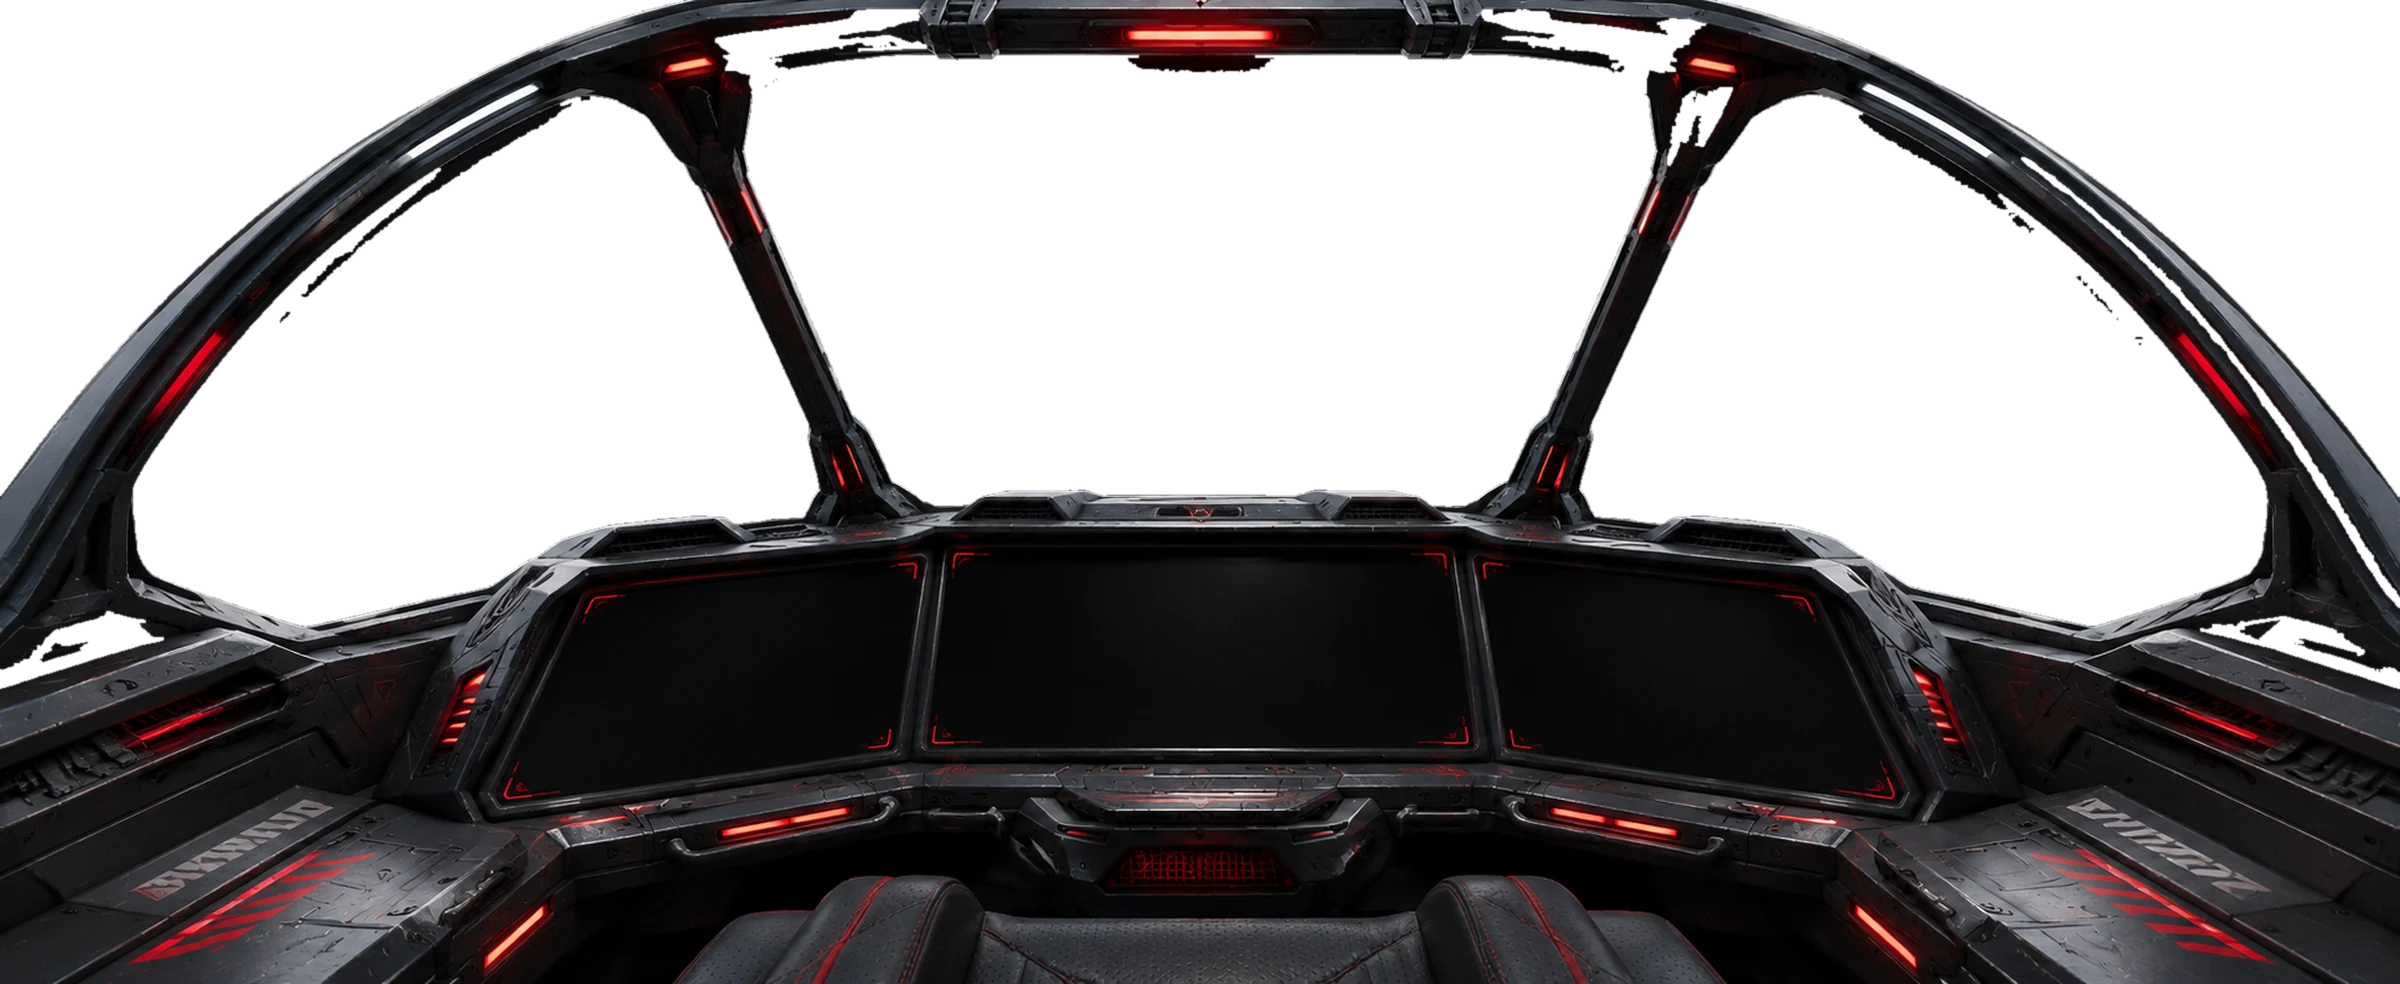
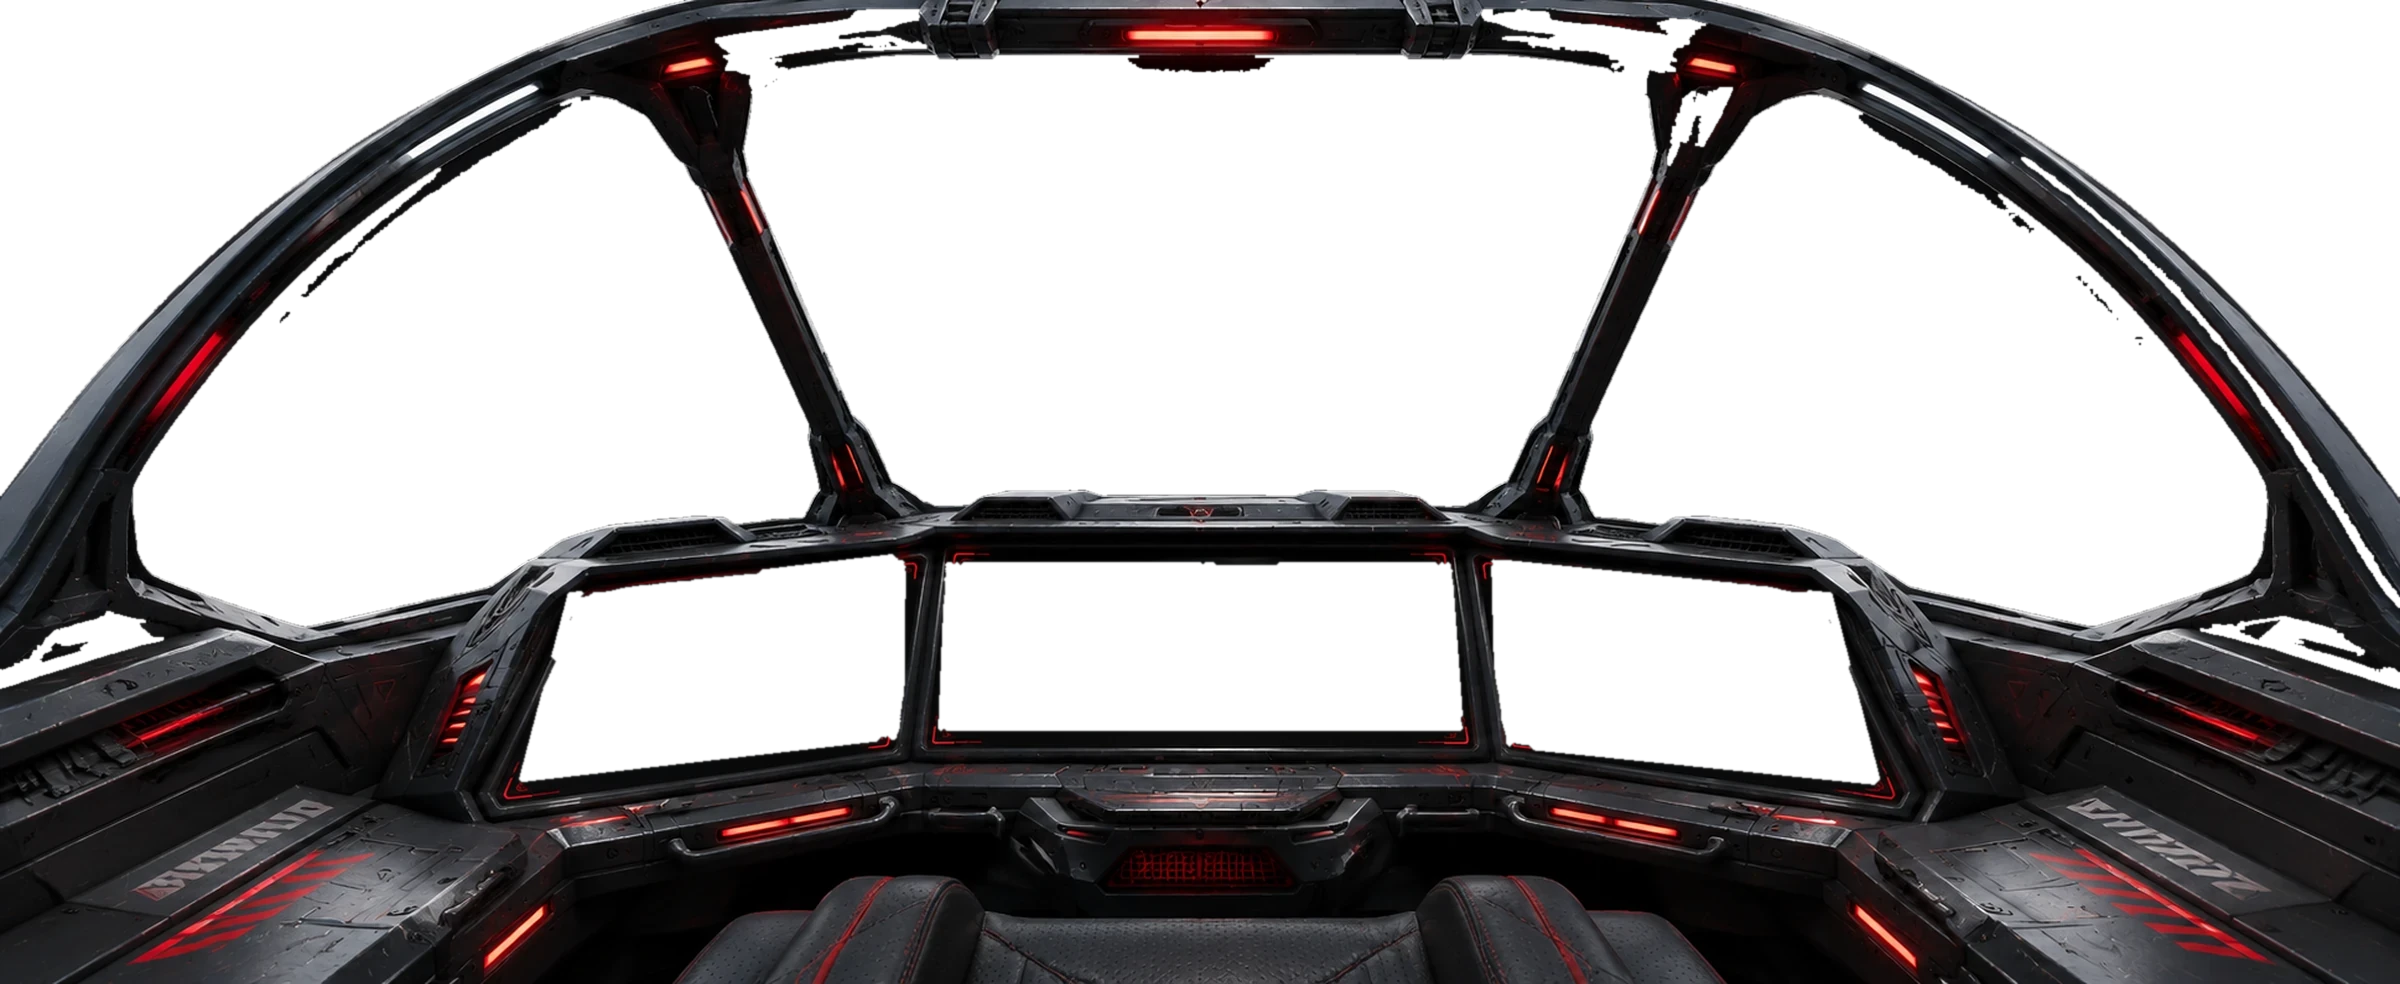
Kokpit ekranları çerçevenin arkasına alındı: resimde ekran camı oyuk, ekran kenara kadar dolar, çerçeve kenarı örter (1.46.4)
Claude-Session: https://claude.ai/code/session_01YNY6pHbJFdPU9EshY3GZjT

Changed region(s): [[0.2188, 0.5488, 0.7812, 0.7927]]

diff --git a/js/game.js b/js/game.js
@@ -22,7 +22,8 @@ ckc.style.left = ckc.style.top = -CKM + 'px'; ckc.style.width = ckc.style.height
 const CKLS = 0.3;   /* ışık katmanı çok yumuşak: ekranın ~üçte biri çözünürlük yeter, iPad'de tuval belleğini korur */
 const ckl = document.createElement('canvas'); ckl.id = 'ckl'; ckl.style.cssText = 'position:fixed;display:block;z-index:1;pointer-events:none;mix-blend-mode:screen;opacity:0';
 ckl.style.left = ckl.style.top = -CKM + 'px'; ckl.style.width = ckl.style.height = 'calc(100% + ' + 2 * CKM + 'px)';
-hud.after(ckc); ckc.after(ckl); ckl.after(hud2);
+const scb = document.createElement('canvas'); scb.id = 'scb'; scb.style.cssText = 'position:fixed;left:0;top:0;width:100%;height:100%;display:block;z-index:1;pointer-events:none';   /* canlı ekranlar kokpit resminin ARKASINDA çizilir; resimdeki ekran camı oyuk, çerçeve ekranın kenarını örter */
+hud.after(scb); scb.after(ckc); ckc.after(ckl); ckl.after(hud2);
 const ckx = ckc.getContext('2d'), hctx2 = hud2.getContext('2d');
 const renderer = new THREE.WebGLRenderer({ canvas: glc, antialias: true });
 renderer.setClearColor(0x03050c);
@@ -75,7 +76,7 @@ function resize(){
   st.style.transformOrigin = '0 0'; st.style.transform = 'scale(' + SK + ')';
   st.style.left = SX + 'px'; st.style.top = SY + 'px'; st.style.width = W + 'px'; st.style.height = H + 'px';
   renderer.setPixelRatio(DPR); renderer.setSize(W, H, false); if (window.__bloomResize) window.__bloomResize();
-  hud.width = W * DPR; hud.height = H * DPR; hud2.width = W * DPR; hud2.height = H * DPR; ckc.width = Math.round((W + 2 * CKM) * DPR); ckc.height = Math.round((H + 2 * CKM) * DPR); ckl.width = Math.round((W + 2 * CKM) * CKLS); ckl.height = Math.round((H + 2 * CKM) * CKLS); ckDirty = true;
+  hud.width = W * DPR; hud.height = H * DPR; hud2.width = W * DPR; hud2.height = H * DPR; scb.width = W * DPR; scb.height = H * DPR; ckc.width = Math.round((W + 2 * CKM) * DPR); ckc.height = Math.round((H + 2 * CKM) * DPR); ckl.width = Math.round((W + 2 * CKM) * CKLS); ckl.height = Math.round((H + 2 * CKM) * CKLS); ckDirty = true;
   LAND = W >= 700 && W / H >= 1.25;
   DH = Math.round(LAND ? clamp(H * 0.27, 100, 230) : clamp(H * 0.2, 92, 150)); PW = 30; VT = 30;
   layoutCockpit();
@@ -1694,7 +1695,7 @@ function layoutCockpit(){
     OX = c0[0]; OY = c0[1]; VIEW = { l: a0[0], t: a0[1], r: b0[0], b: b0[1] }; Hv = mp(0, 393)[1];
     SCR = SCR_DEF.map(d => {
       const cx = d.q.reduce((t, p) => t + p[0], 0) / 4, cy = d.q.reduce((t, p) => t + p[1], 0) / 4;
-      const q = d.q.map(p => { const vx = cx - p[0], vy = cy - p[1], l = Math.hypot(vx, vy) || 1; return mp(p[0] + vx / l * 2.5, p[1] + vy / l * 2.5); });
+      const q = d.q.map(p => { const vx = cx - p[0], vy = cy - p[1], l = Math.hypot(vx, vy) || 1; return mp(p[0] - vx / l * 5, p[1] - vy / l * 5); });
       const lw = Math.round((Math.hypot(q[1][0] - q[0][0], q[1][1] - q[0][1]) + Math.hypot(q[2][0] - q[3][0], q[2][1] - q[3][1])) / 2);
       const lh = Math.round((Math.hypot(q[3][0] - q[0][0], q[3][1] - q[0][1]) + Math.hypot(q[2][0] - q[1][0], q[2][1] - q[1][1])) / 2);
       // küçük ekranlarda içerik üst üste binmesin: ekran içi en az 96 birim yükseklikte çizilir, sonra ekrana küçültülür
@@ -2140,7 +2141,7 @@ function drawCockpitImg(c){
         if (x0 > -CKM) k.drawImage(ckc, sxL, 0, 2, ckc.height, -CKM, -CKM, x0 + CKM + 0.5, H + 2 * CKM);
         if (x1 < W + CKM) k.drawImage(ckc, sxR, 0, 2, ckc.height, x1 - 0.5, -CKM, W + CKM - x1 + 1, H + 2 * CKM); } catch (e) { console.warn(e); } }
     try { cockpitTone(k); glassLayer(k, paint); litLayer(paint); } catch (e) { console.warn(e); } }
-  { const v = (window.__ck3on || window.__ck3wait) ? 'hidden' : ''; if (ckc.style.visibility !== v){ ckc.style.visibility = v; ckl.style.visibility = v; } }
+  { const v = (window.__ck3on || window.__ck3wait) ? 'hidden' : ''; if (ckc.style.visibility !== v){ ckc.style.visibility = v; ckl.style.visibility = v; scb.style.visibility = v; } }
   { const sw = 'translate(' + sway.x.toFixed(1) + 'px,' + sway.y.toFixed(1) + 'px)'; if (sw !== ckSway){ ckSway = sw; ckc.style.transform = sw; ckl.style.transform = sw; } }
   { // dış ışık: güneşe bakınca, yakın patlamada, lazer ateşlerken kokpit aydınlanır
     const sa = Math.acos(clamp(fwd.dot(sunDir), -1, 1)), sunL = Math.pow(clamp(1 - sa / 1.3, 0, 1), 2);
@@ -2151,13 +2152,15 @@ function drawCockpitImg(c){
   // ekranlar: içerik önce küçük bir tuvale çizilir, sonra eğik ekran yüzeyine oturtulur
   const ui = scrTick++ % Math.max(1, SCR.length);   // her karede tek ekranın içeriği yenilenir (sırayla, ~20 Hz); hepsi her karede yerine oturtulur
   if (window.__ck3on || window.__ck3wait){ if (window.__ck3on) SCR.forEach((sc, i) => { if (i === ui || !sc.drawn) scrPaint(sc); }); c.restore(); return; }   /* 3B kokpit: ekranlar 3B panelde, resim ve lambalar çizilmez */
+  const sbx = scb.getContext('2d'); sbx.setTransform(DPR, 0, 0, DPR, 0, 0); sbx.clearRect(0, 0, W, H); sbx.save(); sbx.translate(sway.x, sway.y);
   SCR.forEach((sc, i) => {
     if (i === ui || !sc.drawn){ sc.drawn = true; const g = sc.g; g.setTransform(sc.ps, 0, 0, sc.ps, 0, 0); g.clearRect(0, 0, sc.lw, sc.lh);
       if (window.__oldScr){ const I = scrBase(g, sc.lw, sc.lh, sc.kind === 'bars' ? 'Sistem' : sc.kind === 'map' ? 'Radar' : 'Gövde'); (sc.kind === 'bars' ? barsScreen : sc.kind === 'map' ? radarScreen : hullScreen)(g, I); }
       else { const I = scr2Base(g, sc.lw, sc.lh, sc.kind === 'bars' ? 'Sistem' : sc.kind === 'map' ? 'Radar' : 'Gövde', sc.kind === 'map' ? SYS[curSys].ad.toLocaleUpperCase('tr-TR') : sc.kind === 'bars' ? (thrustNow > 0.1 ? 'İTİŞ' : braking ? 'FREN' : '') : (hp.hit > 0 ? 'HASAR' : ''));
         (sc.kind === 'bars' ? sys2Screen : sc.kind === 'map' ? radar2Screen : hull2Screen)(g, I); scr2Glass(g, sc.lw, sc.lh); } }
-    drawQuad(c, sc); scrGlow(c, sc);
+    drawQuad(sbx, sc); scrGlow(c, sc);
   });
+  sbx.restore();
   // panel lambaları: tehlikede kırmızı kristaller hızlı yanıp söner, hızlanırken mavi halka yanar
   c.globalCompositeOperation = 'lighter';
   const full = cargoSum() >= cargoCap(), a = (hazard || hp.hull < 30) ? 0.55 + 0.45 * Math.sin(time * 12) : (full ? 0.5 + 0.3 * Math.sin(time * 4) : 0.3 + 0.18 * Math.sin(time * 2.2));
@@ -2495,7 +2498,7 @@ function drawHud(){
   }
 
   { const c = hctx2; c.setTransform(DPR, 0, 0, DPR, 0, 0); c.clearRect(0, 0, W, H);
-  if (!IMGMODE && ckx.__img !== null){ ckx.__img = null; ckx.setTransform(1, 0, 0, 1, 0, 0); ckx.clearRect(0, 0, ckc.width, ckc.height); }
+  if (!IMGMODE && ckx.__img !== null){ ckx.__img = null; ckx.setTransform(1, 0, 0, 1, 0, 0); ckx.clearRect(0, 0, ckc.width, ckc.height); scb.getContext('2d').clearRect(0, 0, scb.width, scb.height); }
   drawCockpit(c);
   if (!docked){ drawRing(c, ox, oy, speed); drawOverlay(c); }
   // hız hissi: kenarlarda kararma ve mavi parıltı

diff --git a/index.html b/index.html
@@ -133,7 +133,7 @@ body,button{font-size-adjust:.5}
 <script>
 /* SÜRÜM: her güncellemede bu numarayı artır. Tarayıcı eski game.js dosyasını önbellekten getirmez,
    ayarlar panelinin altında da bu numara görünür. */
-window.SD_VERSION = '1.46.3';
+window.SD_VERSION = '1.46.4';
 window.SD_FB = { apiKey: "AIzaSyADLoPqH_HEHjSv1mwY23cJZkuce-KOkUo", authDomain: "stardrift-617de.firebaseapp.com", projectId: "stardrift-617de", storageBucket: "stardrift-617de.firebasestorage.app", messagingSenderId: "527698904689", appId: "1:527698904689:web:dfdceeabba807fdf747dd0" };   // Firebase istemci ayarı (gizli değildir; güvenlik Firestore kurallarındadır)
 document.write('<script src="vendor/three-bloom.js?v=' + window.SD_VERSION + '"><\/script>');
 document.write('<script src="js/game.js?v=' + window.SD_VERSION + '"><\/script>');
